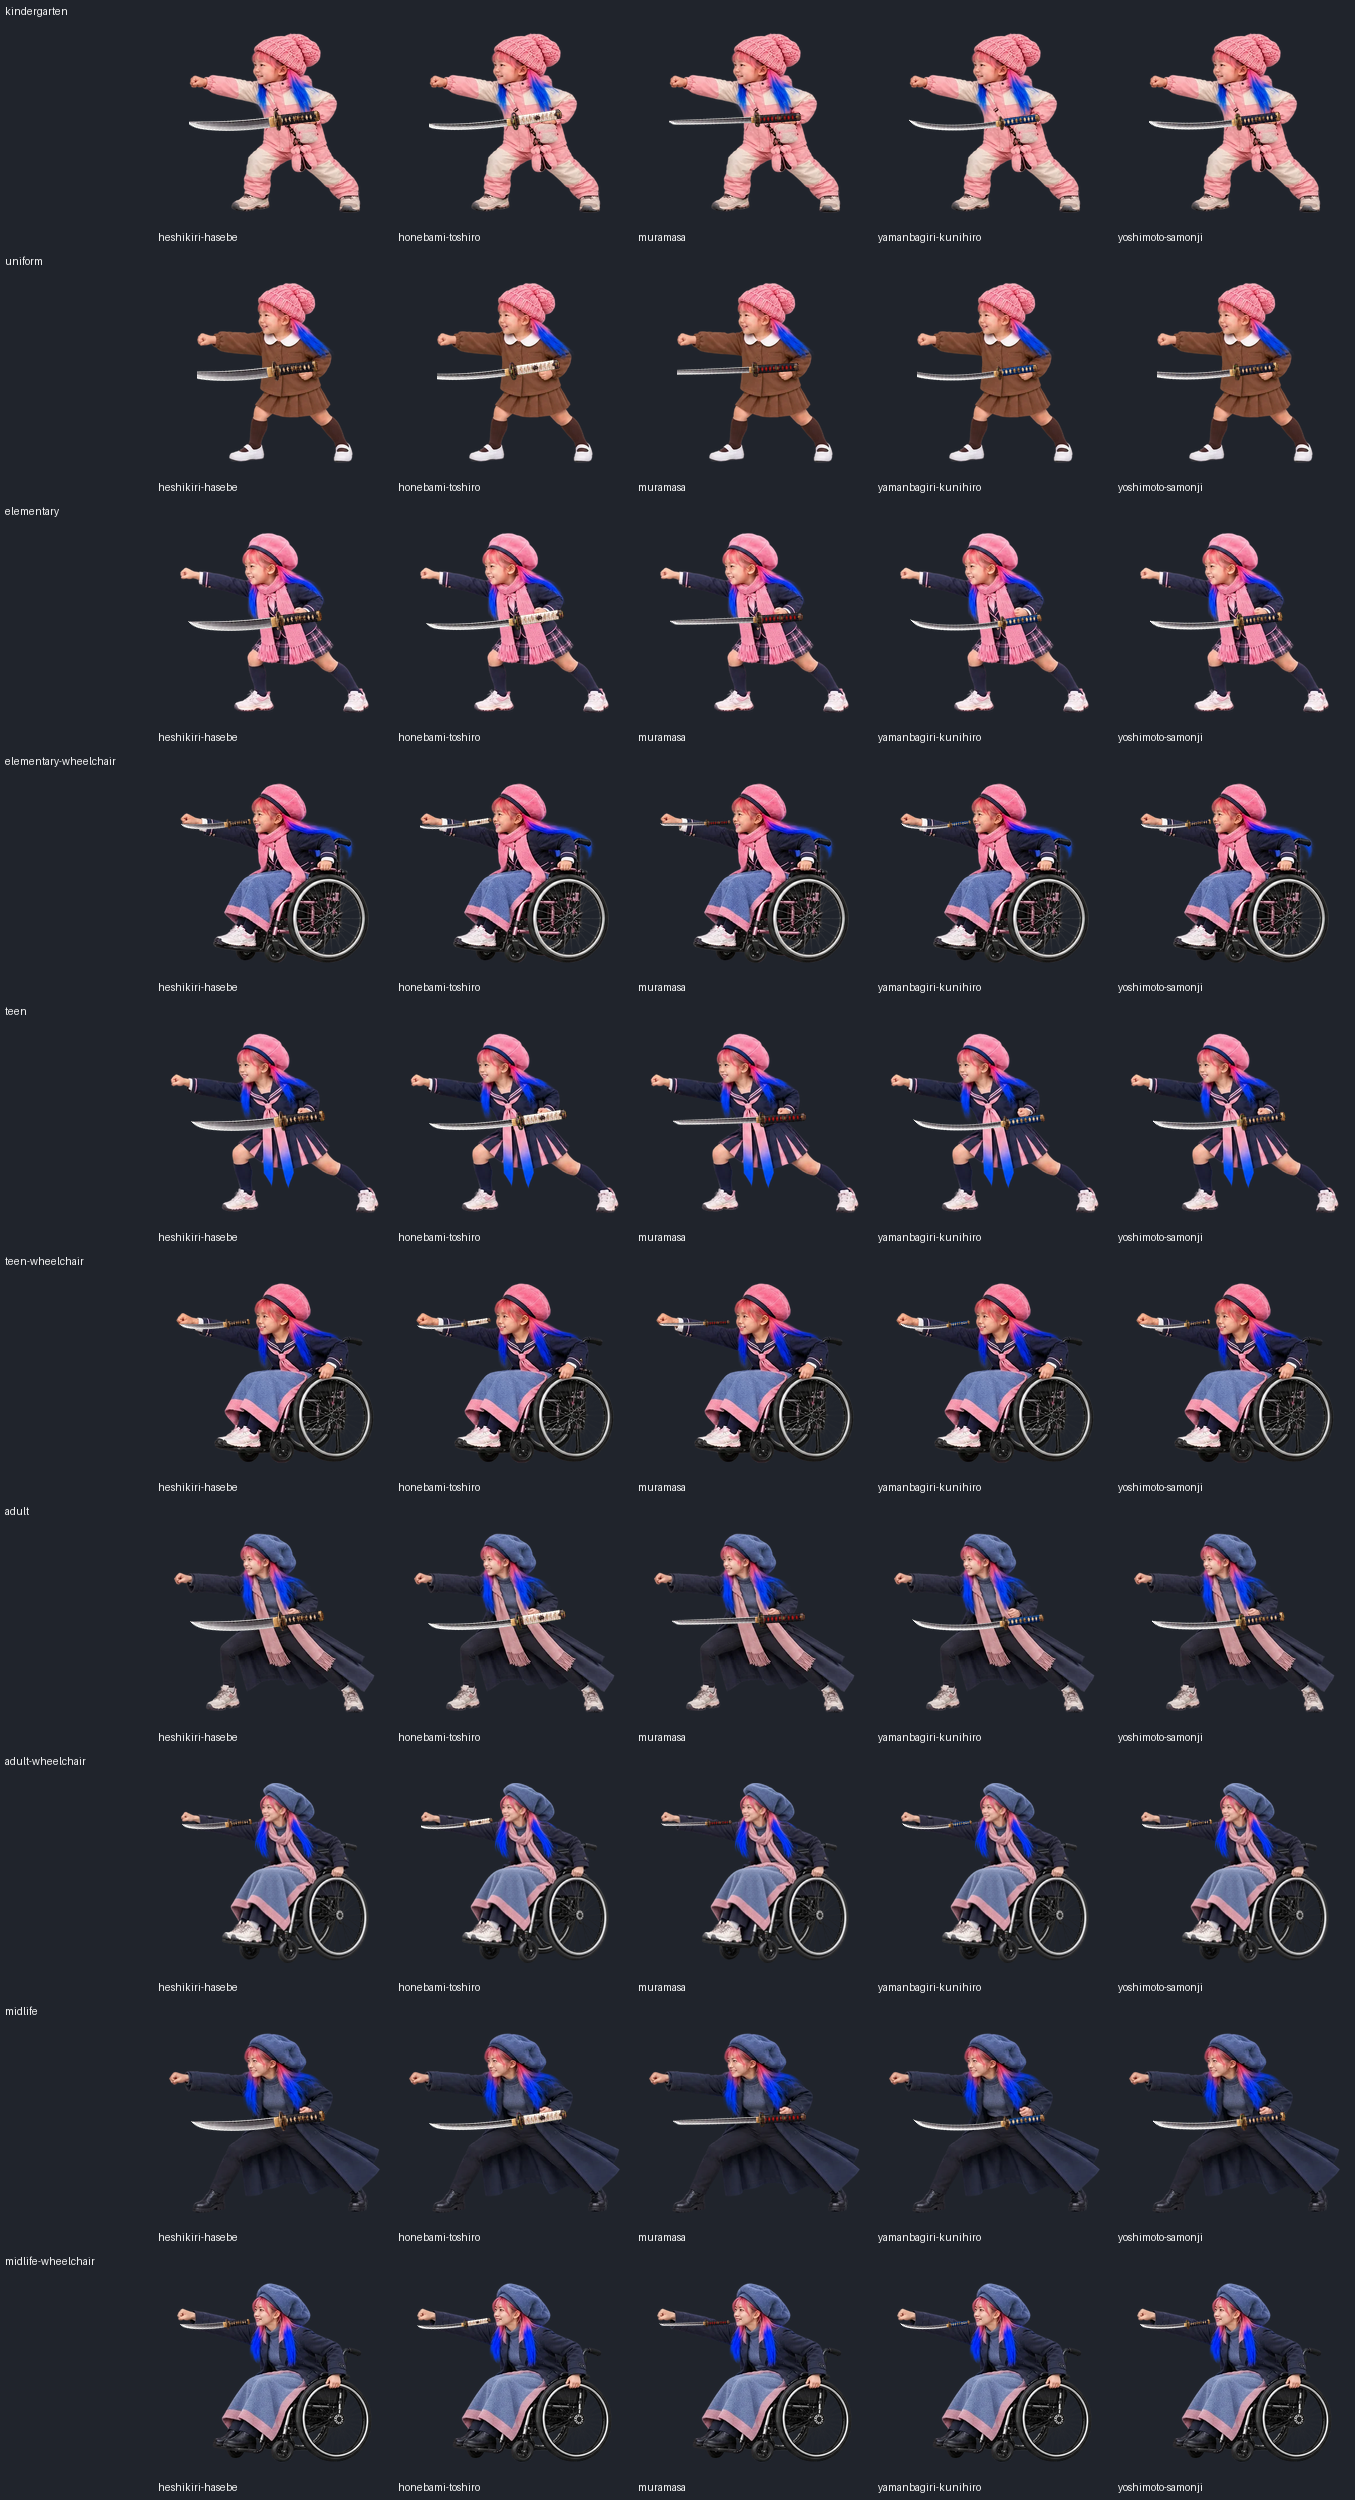
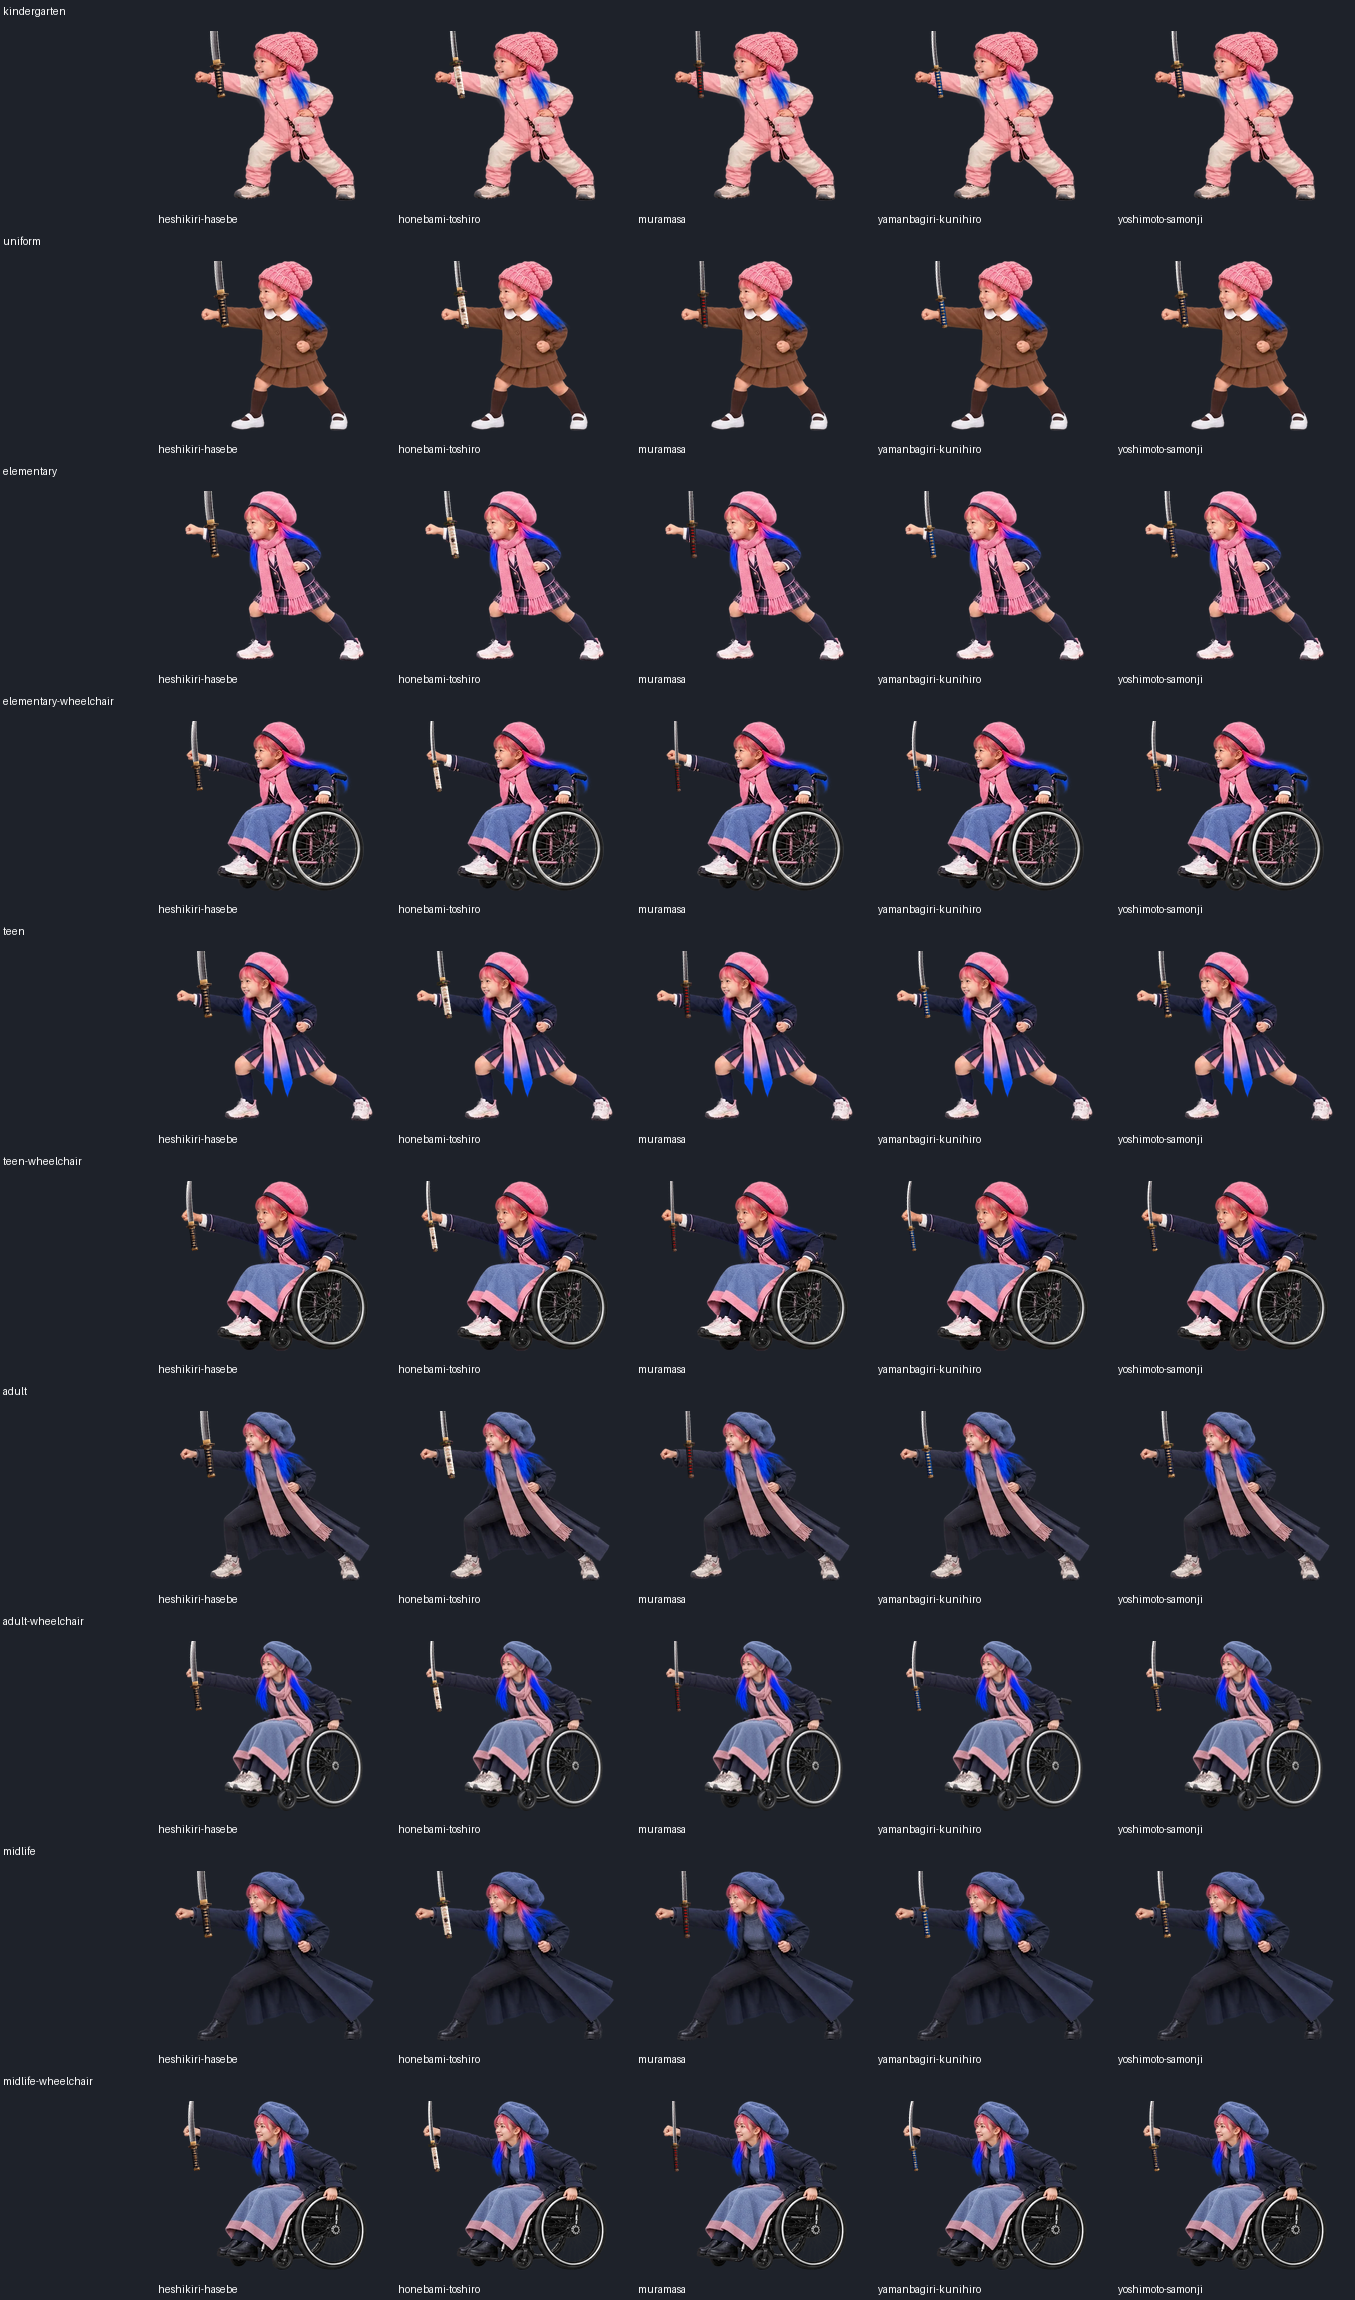
fix: align Nam slash swords with hands

diff --git a/.claude/skills/sit-character-sprite/SKILL.md b/.claude/skills/sit-character-sprite/SKILL.md
@@ -79,6 +79,7 @@ Sit by Me の4人（と子供3人、不良など人物）の絵を、生成 → 
 - 3x3の各セルに全身を収め、隣の人物と重ねない。車椅子・帽子・手・小道具もセル境界を越えず、人物の間に透明な間隔を残す。収まらない場合は縦横比を保って人物全体を一様に縮小する。ゲーム内で縮小表示する素材では、各セルをぎりぎりまで埋めず、人物とポーズの識別を優先する（C001中学生車椅子の2026-10-26生成で、行境界の重なりが1コマ欠落と隣コマへの帽子混入を起こしたため）。
 - `key_grid.py` が `EMPTY` を返す、隣の人物の断片が切り出しへ入る、または手足・車輪がセル端で切れる場合は、その候補を手作業の境界切りで採用しない。原因をIssueへ記録し、セル内の余白を増やすpromptへ変えて再生成する。見えない微小ノイズと、ポーズやシルエットが損なわれる重なりは別の合否として扱う。
 - **刀・武器は人物と別レイヤーで再利用する（kako-jun 2026-10-26）**。同じ刀を年齢・衣装・車椅子ごとに描き直さず、刀ごとに共通画像を1枚作り、`ready / slash / special` など攻撃ポーズごとの大まかな位置・縮尺・角度を複数世代へ適用する。刀は人物の前面へ表示する。表示時間が短く、縮小されるため、指と柄の完全な接触や遮蔽は合否条件にせず、拳の近くに柄があり攻撃姿勢として読めるかを確認する。共通transformが立位と車椅子など異なるポーズ構造で明らかに崩れる場合だけ、構造別に少数の位置・縮尺transformへ分け、年齢ごとの武器画像を増やさない。位置合わせは透明余白を除いた人物の可視bboxを基準にし、立位・車椅子など拳の位置が構造的に異なる場合は位置transformだけ分ける。刀画像は同じものを使い、各構造から1セット以上を縮小合成して確認する（C001 2026-10-26: 小学生立位＋壮年車椅子の比較で構造別位置を確認）。
+- 刀を回転してから柄アンカーを置くときは、回転前の刀幅・高さでアンカー座標を算出し、回転後キャンバス内の座標へ変換してから人物へ合成する。回転後の幅・高さを回転前寸法の代わりに使ったり、回転後キャンバスの固定割合を柄位置とみなしたりしない。各刀候補×対象世代の白/暗色縮小一覧を作り、拳との近さ・刀身全体の画面内収まりを目で確認する（C002 2026-10-27: 共通 `.82,.82` の目安アンカーと誤った回転後位置計算、車椅子用の過小縮尺が、手とのずれ・刀身見切れを見逃す原因になった）。
 - **全員の武器は刀（kako-jun 2026-10-26）**。戦闘キャラにリボンを武器として描かない。刀は人物と別レイヤーで重ね、人物の前面に表示する。軌跡は既定では作らない。明示的に必要になった場合だけ、刀の移動方向に沿う短く細い斬撃線・残像を刀と別レイヤーで作る。大きな弧・帯・リボン状や布状の曲線軌跡は作らない。刀の柄と拳は縮小状態で近くに見えればよく、厳密な接触や指の遮蔽は合否条件にしない。マフラーやネッカチーフは衣装として人物に接続した状態を保つ。
 - **刀の端切れを縮小合成で確認する（C001 2026-10-26）**。各刀候補の実際に見えるalpha領域を使い、立位・車椅子など必要な構造の全対象世代へ配置した一覧を作る。横へ長く伸びる斬撃では、先端だけでなく鍔・柄も含めた刀全体がゲーム画面のフレーム内に残るかを一覧と実使用サイズの両方で目視する。どれか一枚でも端から刃先が飛び出して見えなくなれば、その刀候補または該当構造のtransformを調整し、一覧を作り直す。まず刀を一様に縮小し、必要なら柄の基準位置を調整する。世代ごとに刀画像を増やすのは、共通刀と構造別transformで解決できない場合だけにする。境界からの固定px距離やalpha端接触を機械的な失格条件にせず、縮小した実表示で欠けて見えるかを判断する。実表示でも先端が判別でき、フレーム内に収まっていれば、過剰な余白を求めない。軌跡を使う場合は人物・刀から分け、刀の移動方向に沿った斬撃線として作る。
 - 武器レイヤーを使うゲームアニメーションでは、キー姿勢を先に確認し、後続工程で振り始め・振り抜きなど隣り合うポーズを補う中間ポーズを作って滑らかにつなぐ。最初から全組み合わせの画像を作らず、共通武器レイヤーと少数の姿勢・transformで成立するかを縮小表示で確かめる。

diff --git a/docs/assets-policy.md b/docs/assets-policy.md
@@ -53,6 +53,12 @@
 - フィールドの歩き: 幼稚園期（スノーボードウェア）は `assets/images/characters/Cxxx/walk/Cxxx-walk-{dir}-{1,2,3}.webp`（`dir`: `down`, `left`, `right`, `up`, `downleft`, `downright`, `upleft`, `upright`）、小学生は `Cxxx-elementary-walk-{dir}-{1,2,3}.webp`。戦闘ポーズの小学生版は `poses/Cxxx-elementary-{pose}.webp`。事故後の主人公（オトン/ナム）の車椅子歩きは小学生・中学生・青年・壮年それぞれ `Cxxx-{elementary,teen,adult,midlife}-wheelchair-walk-{dir}-{1,2,3}.webp`。C001の4段階は各8方向×3コマを揃えた。各方向3コマは仮の仕様で、name-name のフィールド移動の仕様が決まったら合わせる。
 - AI の定番見た目だった旧テンプレ絵（成長シート・車椅子シート・方向確認サンプル）は 2026-10-14 に撤去した。
 
+### 戦闘人物と刀の合成
+
+- 戦闘人物の刀は人物画像へ焼き込まず、候補刀ごとの共通画像を前面レイヤーとして合成する。軌跡は既定で作らない。
+- ポーズ構造（立位・車椅子）ごとの少数の位置・縮尺・角度を使い、世代ごとに刀画像を増やさない。縮小表示で柄が拳の近くにあり、刀身全体が読めることを白・暗色背景で一覧確認する。指の完全な握りや厳密な重なりは求めない。
+- 回転後の柄アンカーは、回転前の画像寸法から回転後キャンバス座標へ変換して求める。固定割合による近似だけに頼らず、候補刀×全対象世代の縮小合成で手元・刀身の見え方を確認する（C002 2026-10-27）。
+
 ### 年齢段階と衣装
 
 - 立ち絵の年齢段階は **幼稚園・小学生（少年編前半）・中学生（少年編後半。2026-10-15 kako-jun: 中学生に統一）・青年・壮年**。少年編の前半と後半のあいだで成長させる。少年編後半のシャーは、貧困で高校へ進学せずトクリュウに入るので、制服ではなく私服。シャーのテーマの緑を生かし、少年編後半から先は**迷彩柄**を着る（2026-10-14 kako-jun）。大人（青年編以降）のシャーは、毒親の影響がなくなり更生した印として、**長い襟足を切った短髪を立てている**。特徴は、年齢段階をまたいで引き継ぐ。成長しても同じ人物と分かること。
